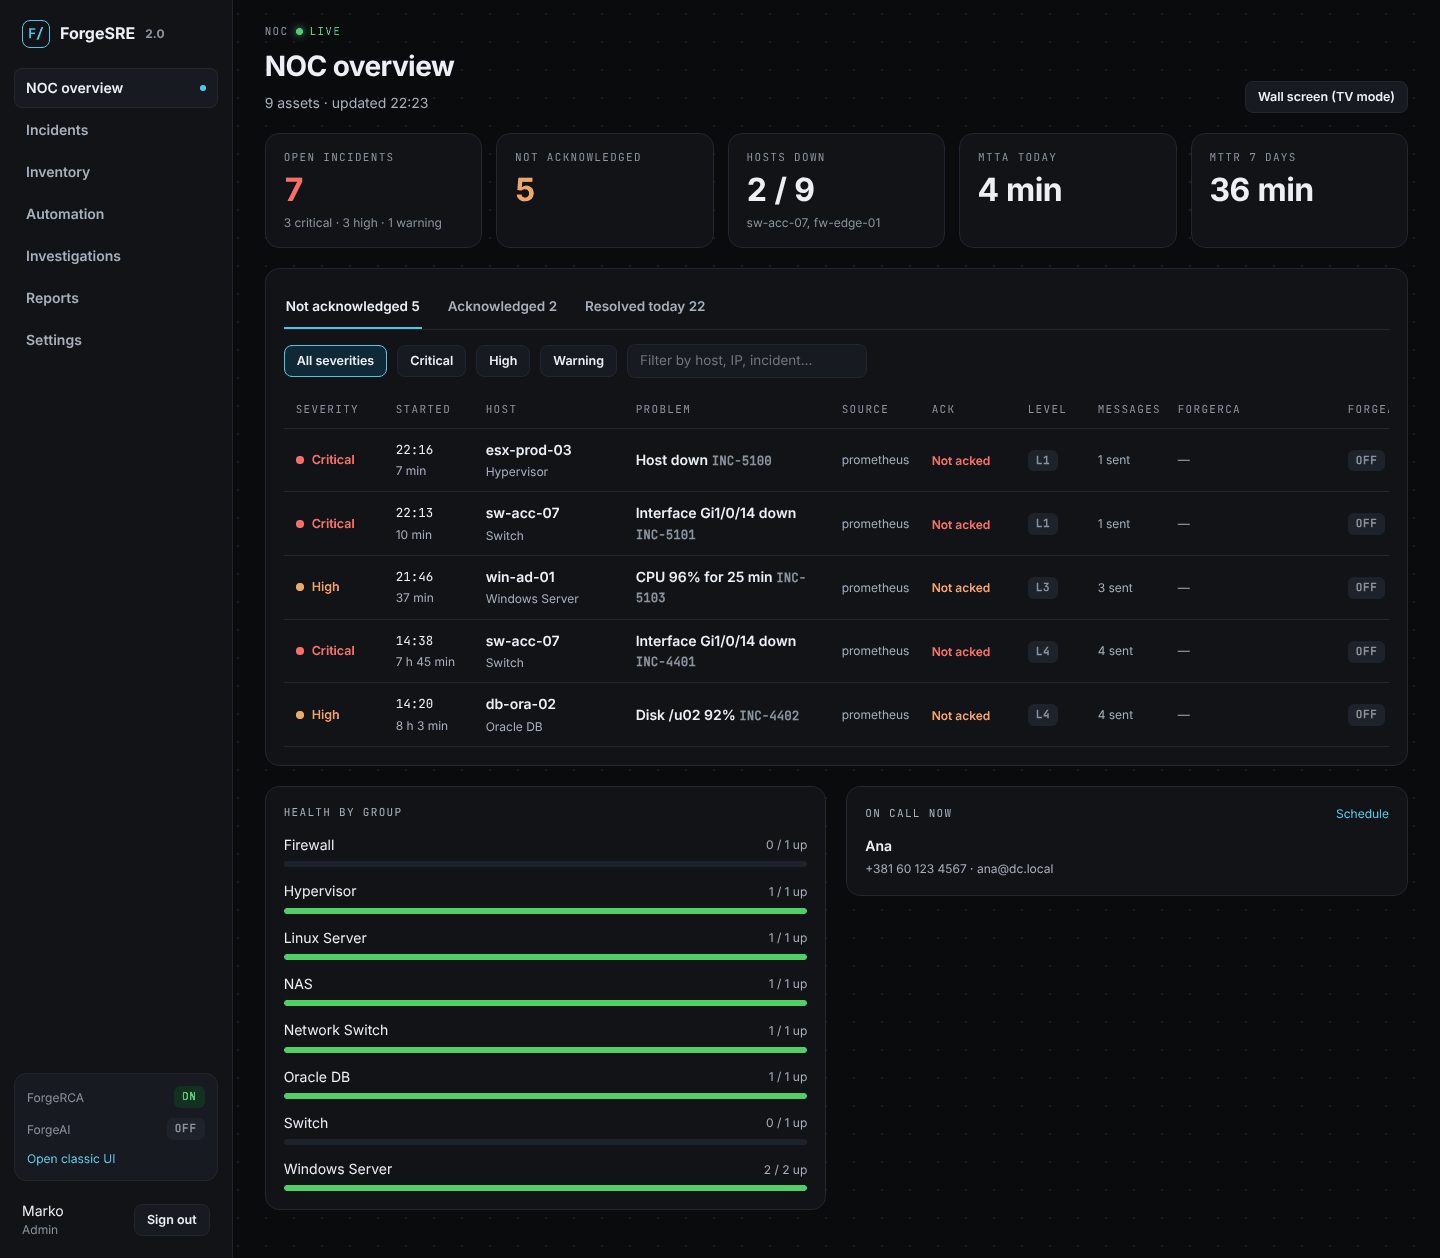
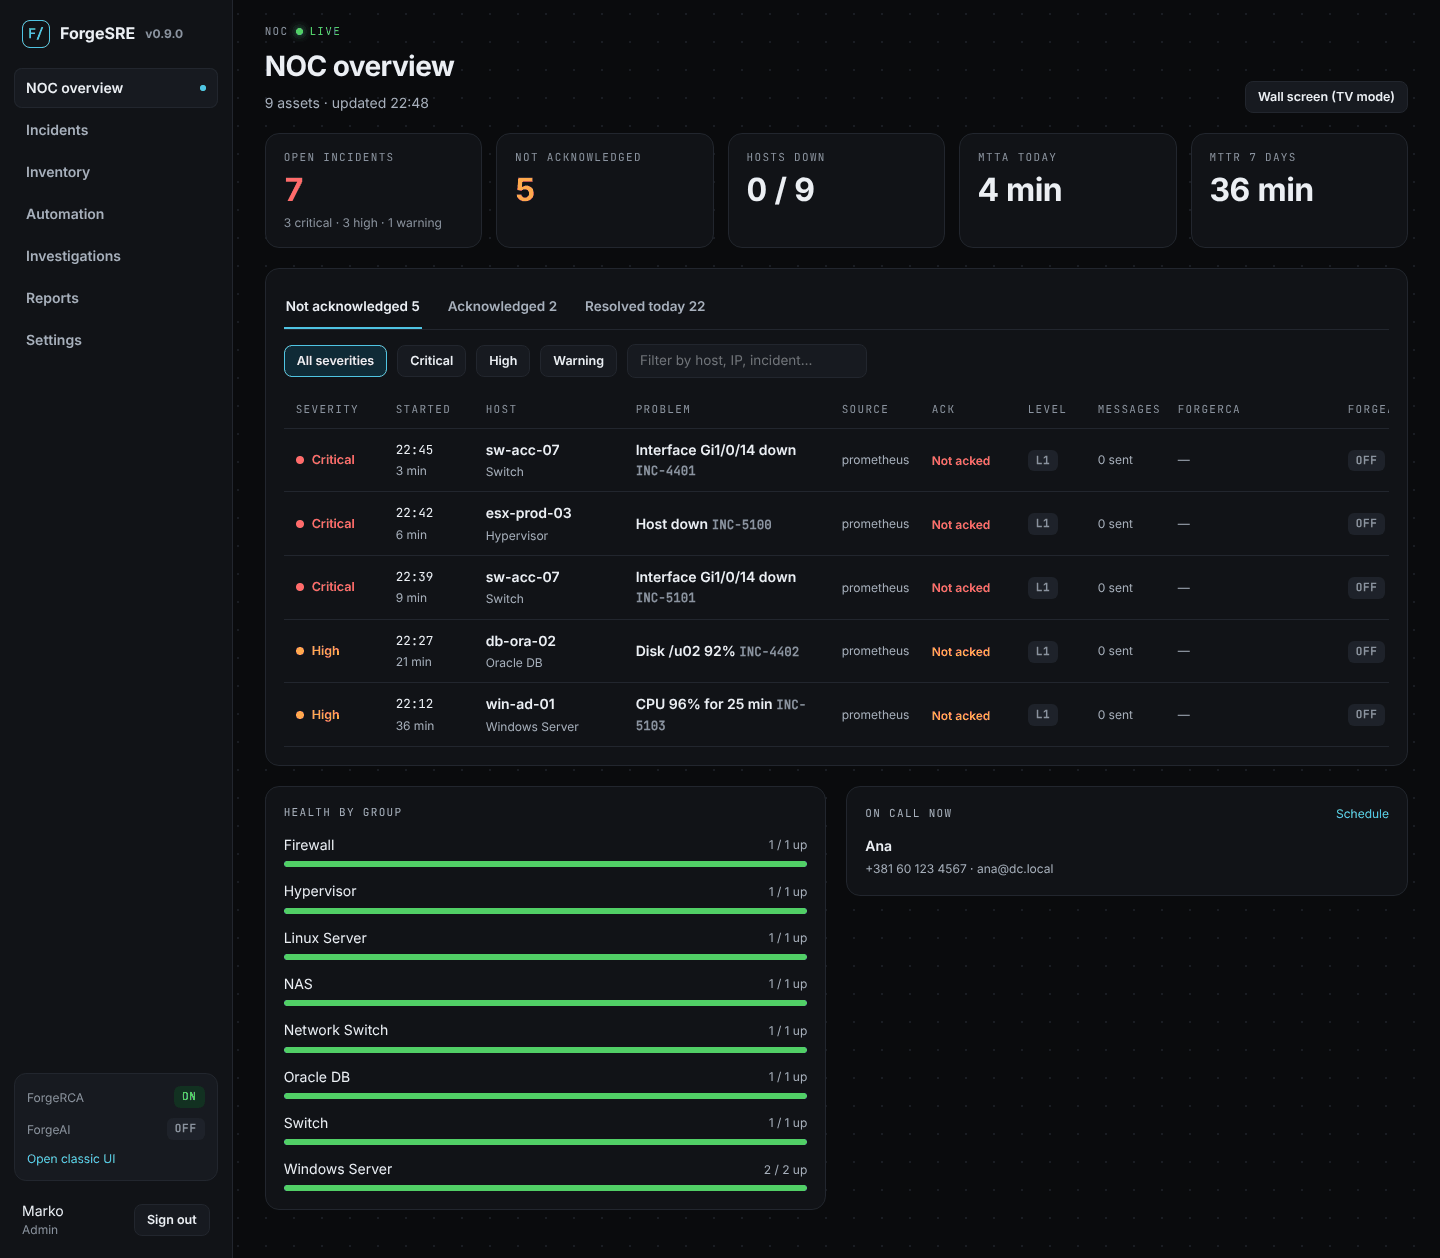
ui: show the real appliance version in the menu
The sidebar said 2.0; it now shows FORGESRE_VERSION from .env (v0.9.0), served
by /api/v1/me, and nothing when it is unset. Screenshots refreshed.

Claude-Session: https://claude.ai/code/session_01K9hus2JZBeXGjiRoAgeJJH

diff --git a/web/src/components/Shell.test.tsx b/web/src/components/Shell.test.tsx
@@ -1,0 +1,23 @@
+import { cleanup, render, screen } from "@testing-library/react";
+import { MemoryRouter } from "react-router-dom";
+import { afterEach, describe, expect, it } from "vitest";
+import { Shell } from "./Shell";
+
+afterEach(cleanup);
+
+describe("Shell", () => {
+  it("shows the appliance version from /me, and nothing when it is unknown", () => {
+    const { rerender } = render(
+      <MemoryRouter>
+        <Shell me={{ email: "a@x", role: "admin", name: "Ana", version: "0.9.0" }} forgeai="off">x</Shell>
+      </MemoryRouter>,
+    );
+    expect(screen.getByText("v0.9.0")).toBeTruthy();
+    rerender(
+      <MemoryRouter>
+        <Shell me={{ email: "a@x", role: "admin", name: "Ana" }} forgeai="off">x</Shell>
+      </MemoryRouter>,
+    );
+    expect(screen.queryByText(/^v\d/)).toBeNull();
+  });
+});

diff --git a/web/src/components/Shell.tsx b/web/src/components/Shell.tsx
@@ -22,7 +22,7 @@ export function Shell({ me, forgeai, children }: { me: Me | null; forgeai: strin
       <nav className="nav" aria-label="Main">
         <div className="nav-brand">
           <span className="nav-logo" aria-hidden="true">F/</span>
-          ForgeSRE <span className="small faint">2.0</span>
+          ForgeSRE {me?.version ? <span className="small faint">v{me.version}</span> : null}
         </div>
         <div className="nav-links">
           {NAV.map((item) => (

diff --git a/web/src/lib/api.ts b/web/src/lib/api.ts
@@ -47,6 +47,7 @@ export interface Me {
   email: string;
   role: Role;
   name: string;
+  version?: string;
 }
 
 export type Severity = "CRITICAL" | "HIGH" | "WARNING" | string;

diff --git a/backend/app/api.py b/backend/app/api.py
@@ -248,7 +248,13 @@ def api_login(body: LoginBody, request: Request, db: Session = Depends(get_db)) 
 
 @router.get("/me")
 def me(user: User = Depends(require_user)) -> dict[str, Any]:
-    return {"email": user.email, "role": user.role, "name": user.name}
+    """The signed-in user, plus the appliance version from .env (FORGESRE_VERSION) for the UI."""
+    return {
+        "email": user.email,
+        "role": user.role,
+        "name": user.name,
+        "version": os.environ.get("FORGESRE_VERSION", "").strip().strip('"'),
+    }
 
 
 @router.get("/assets")

diff --git a/tests/test_new_ui.py b/tests/test_new_ui.py
@@ -523,3 +523,10 @@ def test_new_ui_is_home_when_built(monkeypatch, tmp_path):
         assert client.get("/", follow_redirects=False).status_code == 200
     finally:
         settings.yaml = old
+
+
+def test_me_reports_appliance_version_for_the_menu(monkeypatch):
+    monkeypatch.setenv("FORGESRE_VERSION", "0.9.0")
+    client = TestClient(create_app())
+    client.post("/login", data={"email": "admin@forgesre.local", "password": "testpass"})
+    assert client.get("/api/v1/me").json()["version"] == "0.9.0"

diff --git a/docs/ui.md b/docs/ui.md
@@ -128,7 +128,8 @@ in `web/src/styles.css`; components use the tokens, never raw colours, and motio
 
 ## Layout
 
-- `src/components/Shell.tsx`: sidebar menu in the order of the designs.
+- `src/components/Shell.tsx`: sidebar menu in the order of the designs; the version next to
+  the name is `FORGESRE_VERSION` from `.env`, served by `GET /api/v1/me`.
 - `src/components/ui.tsx`: Chip, Card, Stat, Bar, Dot.
 - `src/styles.css`: design tokens (colours, radius, fonts) and base styles.
 - `src/pages/*`: one file per page; pages not rebuilt yet link to their classic page.
